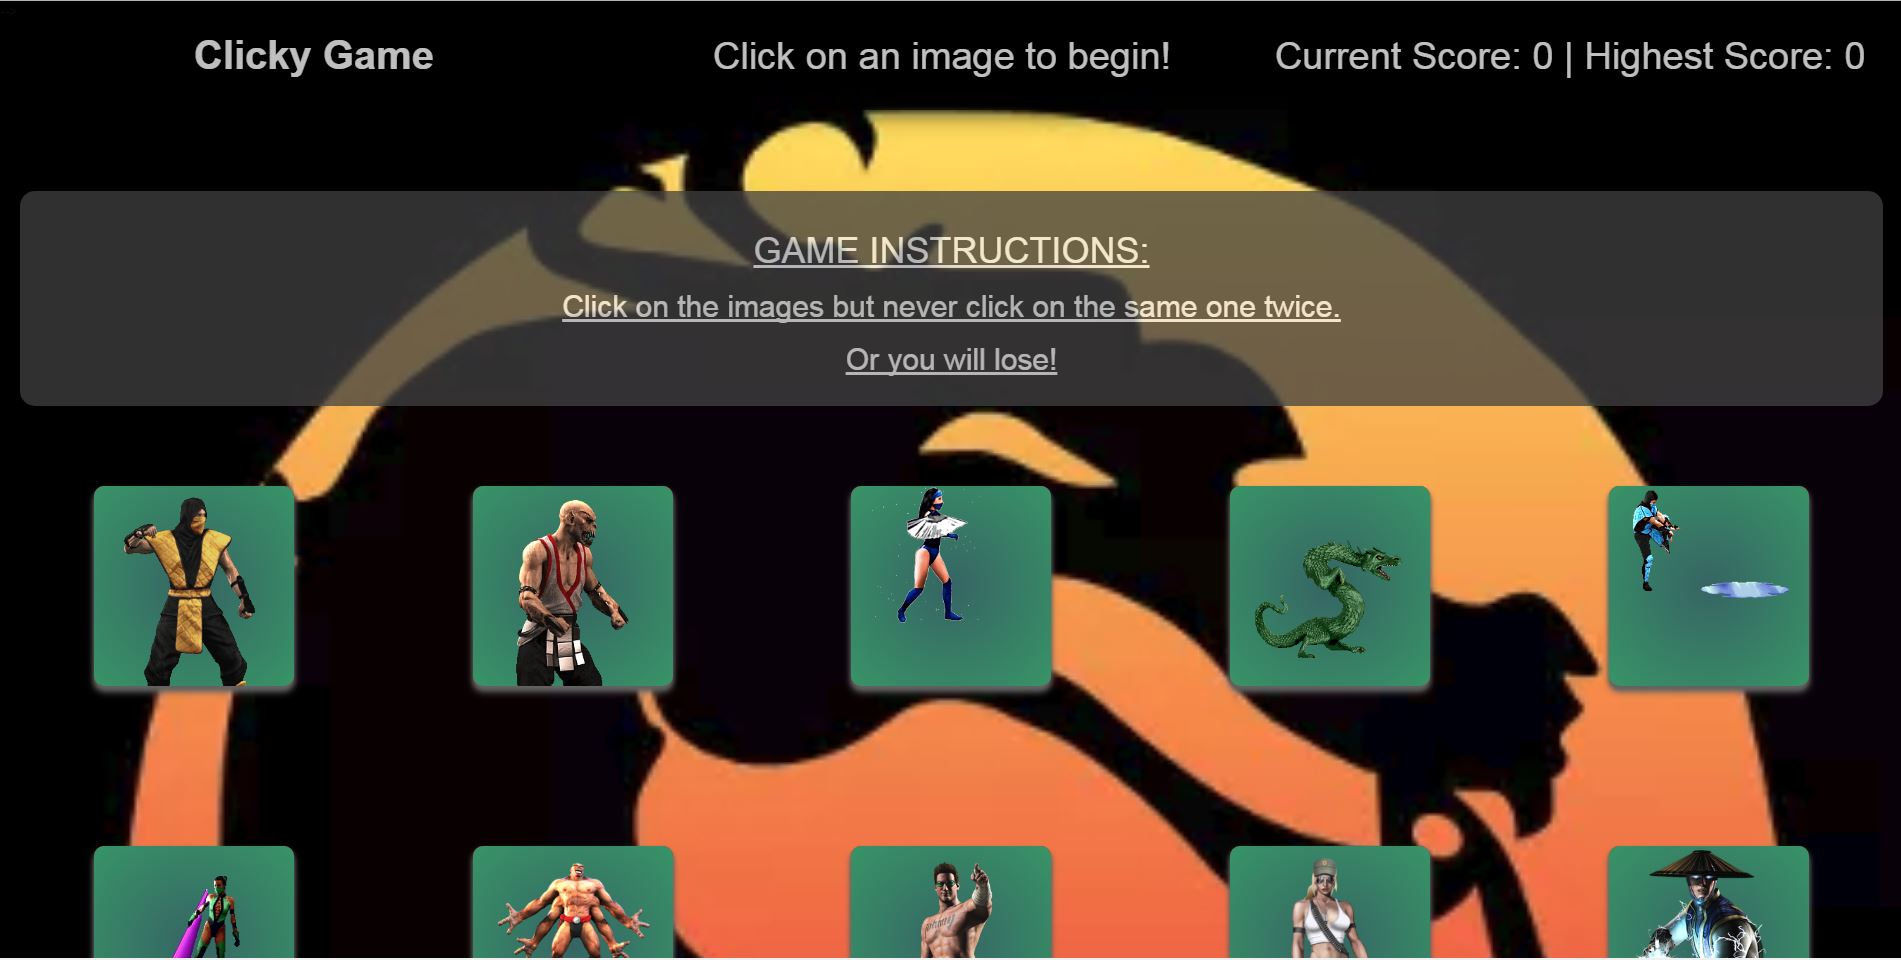
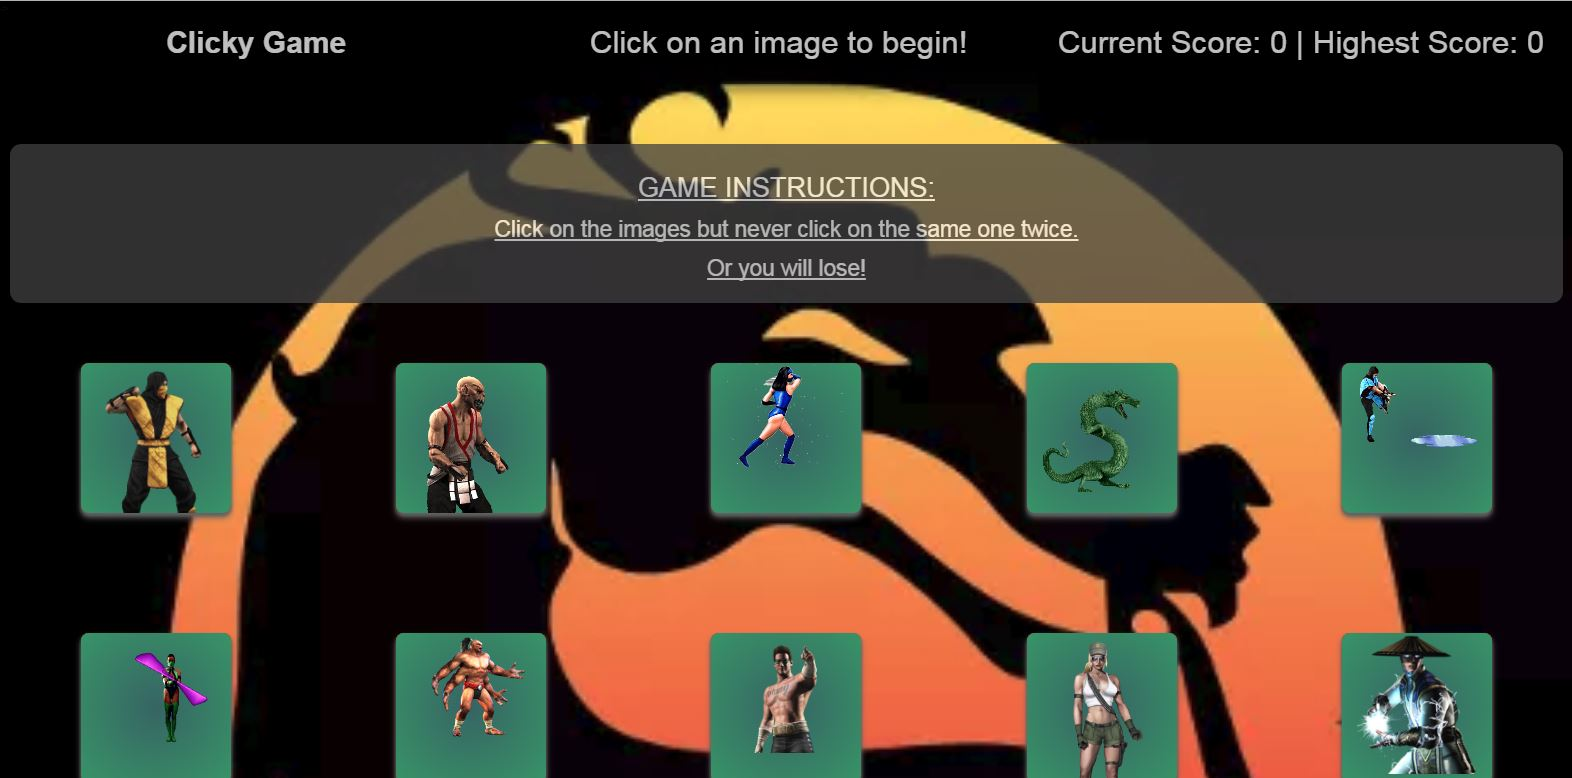
completed readme

diff --git a/README.md b/README.md
@@ -18,4 +18,4 @@ In this assignment, I created a created a memory game with React. The objective 
 
 ## Game Preview
 
-![Alt Text](game-img1.png)
+![alt text](game-img.jpg)
